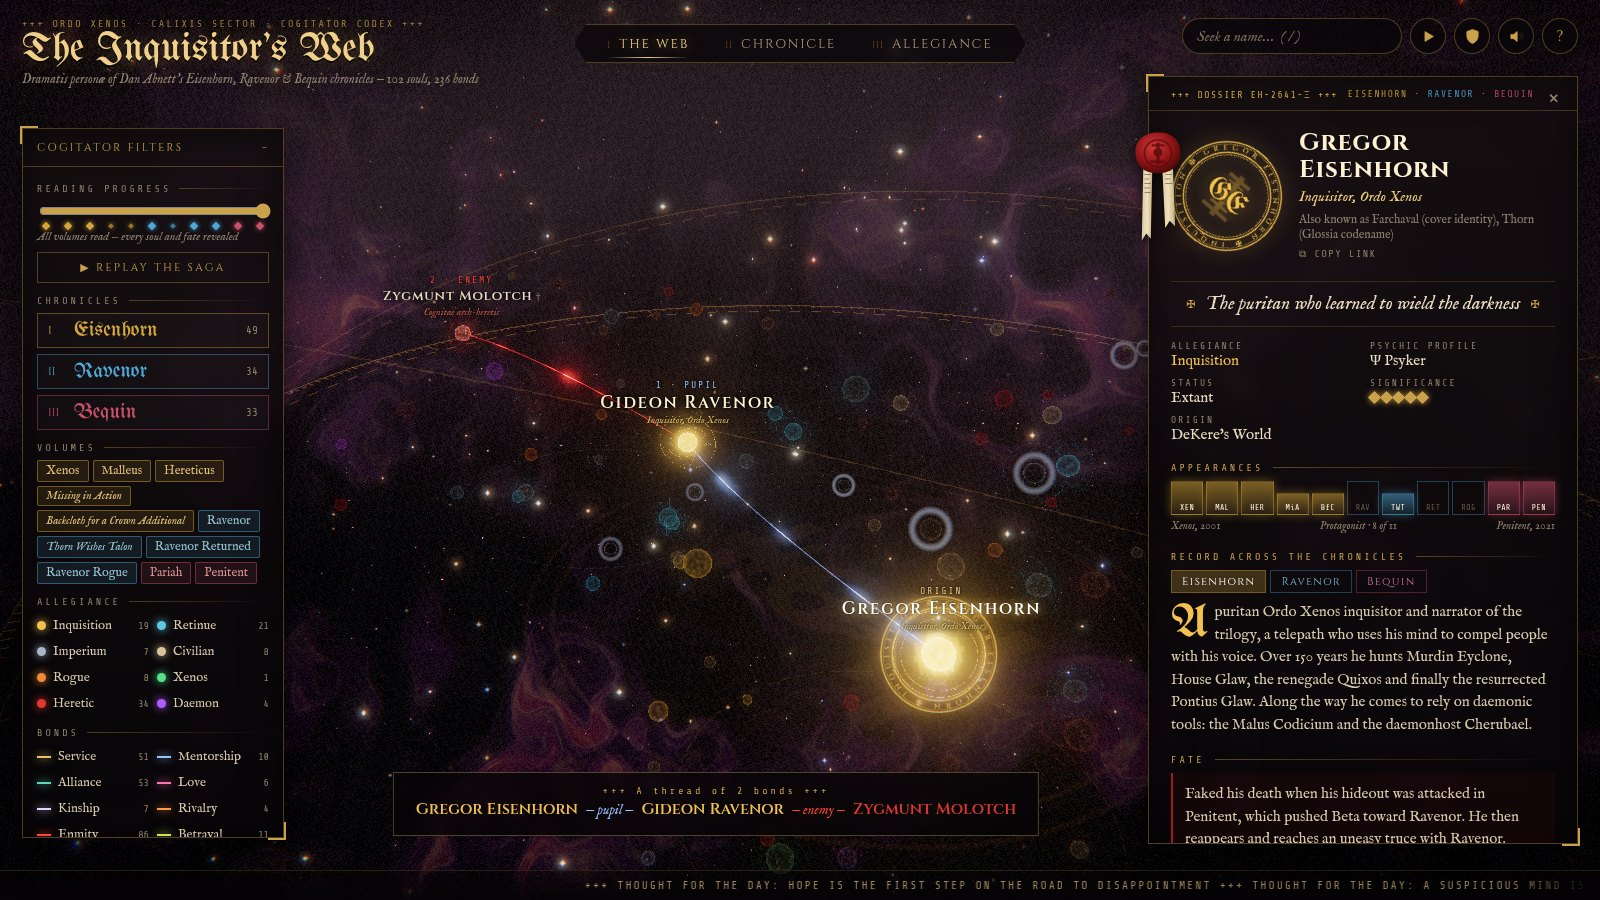
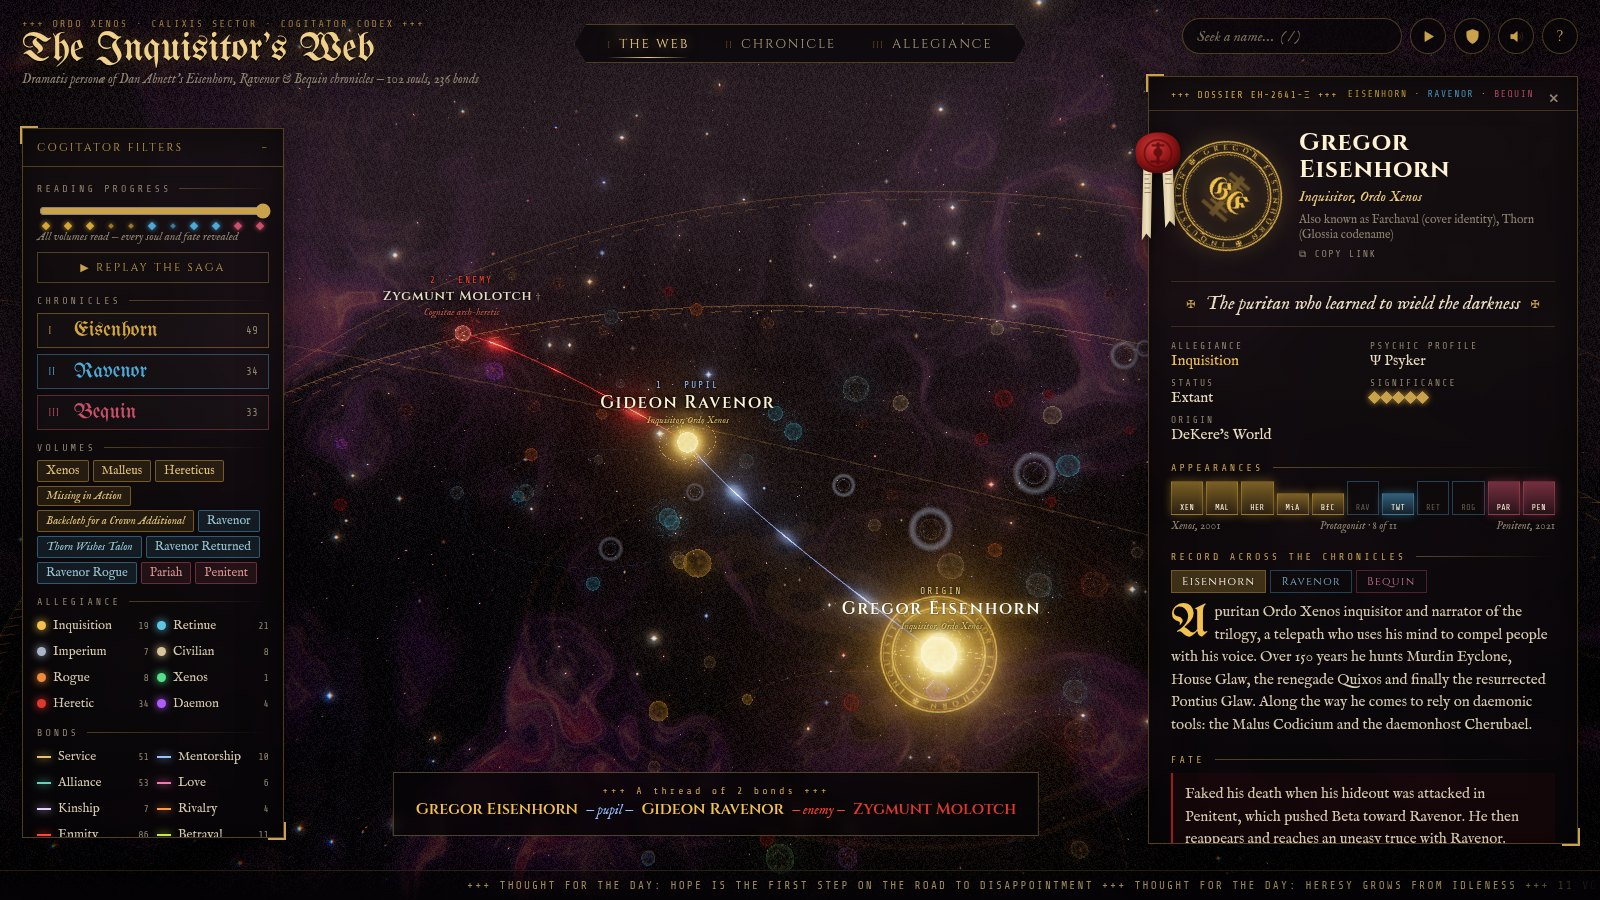
Keep labels and chronicle titles clear of the first-visit hint; refresh docs screenshots

diff --git a/src/scene/world.ts b/src/scene/world.ts
@@ -588,7 +588,8 @@ export class World {
       const narrow = W < 760;
       let tx = THREE.MathUtils.clamp(cx, r.w / 2 + (narrow ? 8 : 300), W - r.w / 2 - (narrow ? 8 : 20));
       let ty = above ? y0 - r.h / 2 - 22 : y1 + r.h / 2 + 18;
-      ty = THREE.MathUtils.clamp(ty, r.h / 2 + (narrow ? 130 : 80), H - r.h / 2 - 40);
+      const floor = this.hudBoxes.reduce((m, b) => (b.y0 > H * 0.7 && b.x0 < tx + r.w / 2 && b.x1 > tx - r.w / 2 ? Math.min(m, b.y0) : m), H - 34);
+      ty = THREE.MathUtils.clamp(ty, r.h / 2 + (narrow ? 130 : 80), floor - r.h / 2 - 6);
       // keep chronicle titles from stacking on one another
       for (let guard = 0; guard < 4; guard++) {
         const hit = targets.find((b) => tx - r.w / 2 < b.x1 && tx + r.w / 2 > b.x0 && ty - r.h / 2 < b.y1 && ty + r.h / 2 > b.y0);
@@ -613,7 +614,7 @@ export class World {
   /** Screen areas covered by HUD panels; soul labels there would sit under glass. */
   private measureHud() {
     const out: { x0: number; y0: number; x1: number; y1: number }[] = [];
-    for (const sel of ['.brand', '#layouts', '.tools', '#filters', '#dossier.open', '.hud-bottom', '#caption.show']) {
+    for (const sel of ['.brand', '#layouts', '.tools', '#filters', '#dossier.open', '.hud-bottom', '#caption.show', '#hint.show']) {
       const el = document.querySelector(sel);
       if (!el) continue;
       const r = el.getBoundingClientRect();
